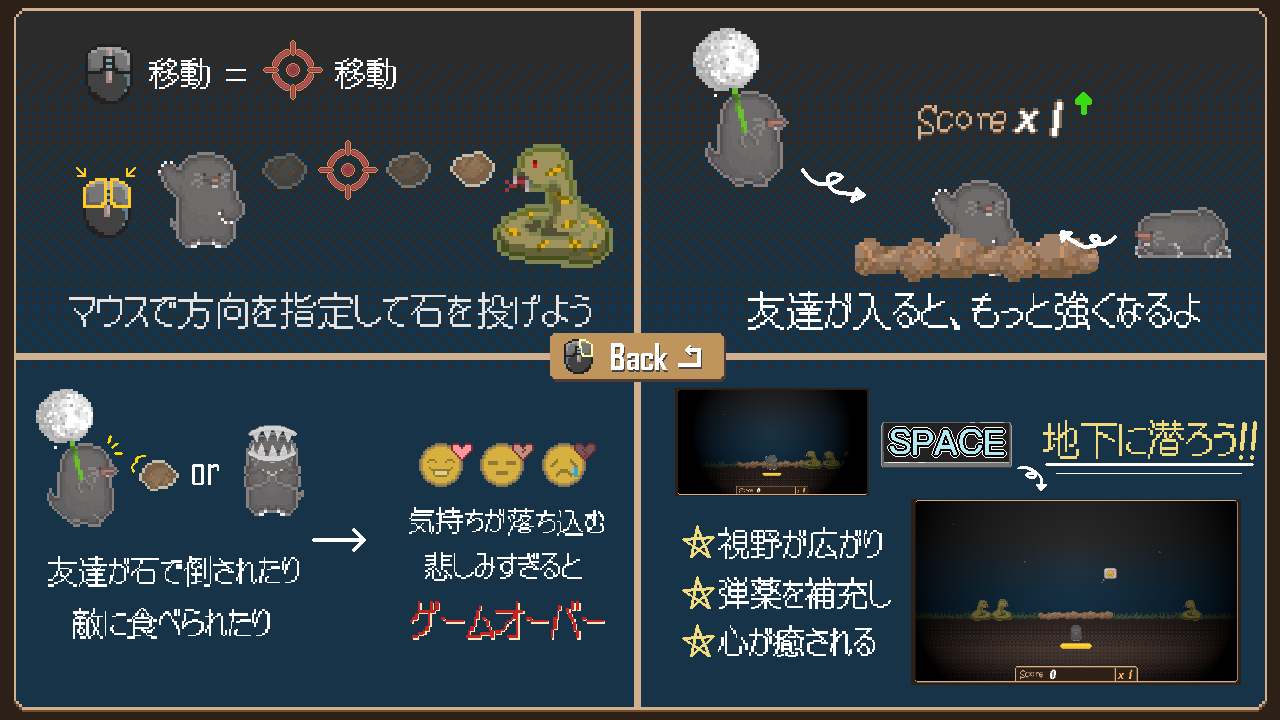
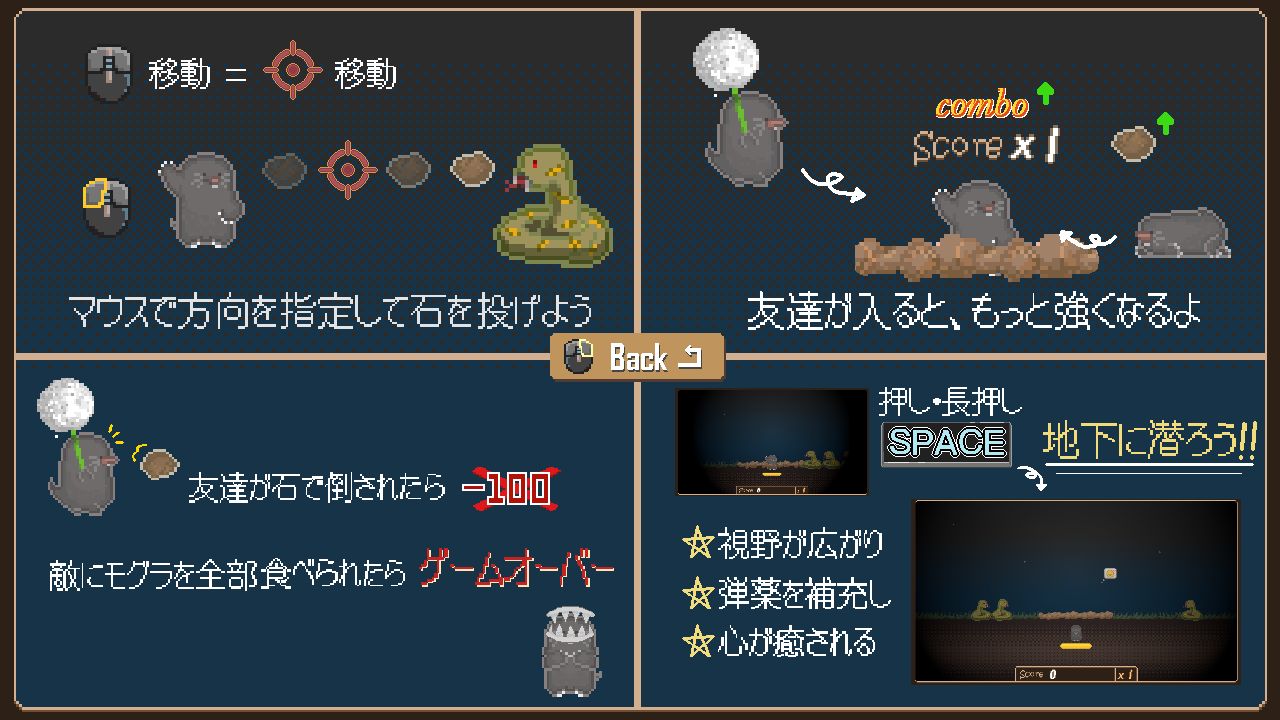
数据调整和小细节调整

diff --git a/KamataEngineNovice1/Enemy.cpp b/KamataEngineNovice1/Enemy.cpp
@@ -208,9 +208,8 @@ void Enemy::Initialize(Camera* camera, Vector2 pos, Type type, Vector2 targetPos
 		break;
 	case Enemy::tBee:
 		_sprite = EnemyManager::_spBee;
-		_frameSum = 6;
-		_spriteSize = { 1152.f / _frameSum,128 };
-		hpMax_ = 2;
+		_frameSum = 4;
+		_spriteSize = { 512.f / _frameSum,128 };
 		break;
 	case Enemy::tPlayer:
 		_sprite = EnemyManager::_spPlayer_walk;
@@ -403,29 +402,36 @@ void EnemyManager::BornEnemy(Camera* camera, int score, int friendSum)
 	_enemyType_fly[0] = { Enemy::tEagles };
 	_enemyType_fly[1] = { Enemy::tEagles };
 	//按照分数调整难度
-	if (score < 600) {
+	if (score < 200) {
 		_linesSum = 2;								//当前多少条线路
 		_lineTime = 10;								//进行随机选择路线的时间
 		_eachBornMax = 2;							//每回至多生成敌人数量
 	}
-	else if (score < 2000) {
+	else if (score < 400) {
 		_linesSum = 4;
 		_lineTime = 20;
 		_eachBornMax = 2;
 	}
-	else if (score < 4000) {
+	else if (score < 700) {
 		_linesSum = 4;
 		_lineTime = 20;
 		_eachBornMax = 3;
+		_enemyType_walk[1] = { Enemy::tSpider };
 	}
-	else if (score < 7000) {
+	else if (score < 1000) {
 		_linesSum = 6;
-		_lineTime = 30;
+		_lineTime = 50;
 		_eachBornMax = 3;
+	}
+	else if (score < 1300) {
+		_linesSum = 6;
+		_lineTime = 50;
+		_eachBornMax = 4;
+		_enemyType_fly[1] = { Enemy::tBee };
 	}
 	else {
 		_linesSum = 6;
-		_lineTime = 50;
+		_lineTime = 30;
 		_eachBornMax = 4;
 	}
 
@@ -552,7 +558,7 @@ void EnemyManager::LoadRes()
 	_spEagles_hurt = Novice::LoadTexture("./RS/Enemy/hawk_hurt.png");
 	_spSpider = Novice::LoadTexture("./RS/Enemy/spider_walk.png");
 	_spSpider_hurt = Novice::LoadTexture("./RS/Enemy/spider_hurt.png");
-	_spBee = Novice::LoadTexture("./RS/Enemy/hawk_walk.png");
+	_spBee = Novice::LoadTexture("./RS/Enemy/bee_walk.png");
 	_spPlayer_walk = Novice::LoadTexture("./RS/Enemy/friend_walk.png");
 	_spPlayer_fly = Novice::LoadTexture("./RS/Enemy/friend_fly.png");
 	_spPlayer_sad = Novice::LoadTexture("./RS/Enemy/player_sad.png");

diff --git a/KamataEngineNovice1/GameStage.cpp b/KamataEngineNovice1/GameStage.cpp
@@ -32,6 +32,7 @@ void GameStage::Initialize()
 
 	EnemyManager::ClearAllEnemy();	//清除所有敌人
 	Score::Initialize();			//重置分数
+	ParticleManager::ClearAll();	//清除粒子
 
 	bg_ = new Background();
 	bg_->Initialize();
@@ -145,7 +146,7 @@ void GameStage::IsCollision()
 						else {
 							ParticleManager::ADD_Particle(camera_, enemyPos, Emitter::plusScore_long);
 							Score::AddScore(enemy, true);
-							Novice::PlayAudio(audioClip_->audioHitEnemy, false, 0.5f);
+							Novice::PlayAudio(audioClip_->audioHitEnemy, false, 2.0f);
 						}
 						Score::AddCombo(enemy);//增加连击
 					}

diff --git a/KamataEngineNovice1/Particle.cpp b/KamataEngineNovice1/Particle.cpp
@@ -760,3 +760,15 @@ void ParticleManager::ScreenDraw()
 		it->ScreenDraw();
 	}
 }
+
+void ParticleManager::ClearAll()
+{
+	for (Particle* it : _particleUpdatePool) {
+		ReleaseParticle(it);
+	}
+	_particleUpdatePool.clear();
+	for (Emitter* it : _emitterUpadtePool) {
+		ReleaseEmitter(it);
+	}
+	_emitterUpadtePool.clear();
+}

diff --git a/KamataEngineNovice1/Score.cpp b/KamataEngineNovice1/Score.cpp
@@ -40,7 +40,7 @@ void Score::AddScore(Enemy* enemy, bool longKill)
 		addScore -= 100;
 		break;
 	}
-	if (longKill && !Enemy::tPlayer)
+	if (longKill && type != Enemy::tPlayer)
 		addScore = 10;
 
 	if (type != Enemy::tPlayer)

diff --git a/KamataEngineNovice1/Particle.h b/KamataEngineNovice1/Particle.h
@@ -171,4 +171,5 @@ public:
 	static void Draw();
 	static void PreDraw();//前景绘图
 	static void ScreenDraw();//UI绘图
+	static void ClearAll();
 };
